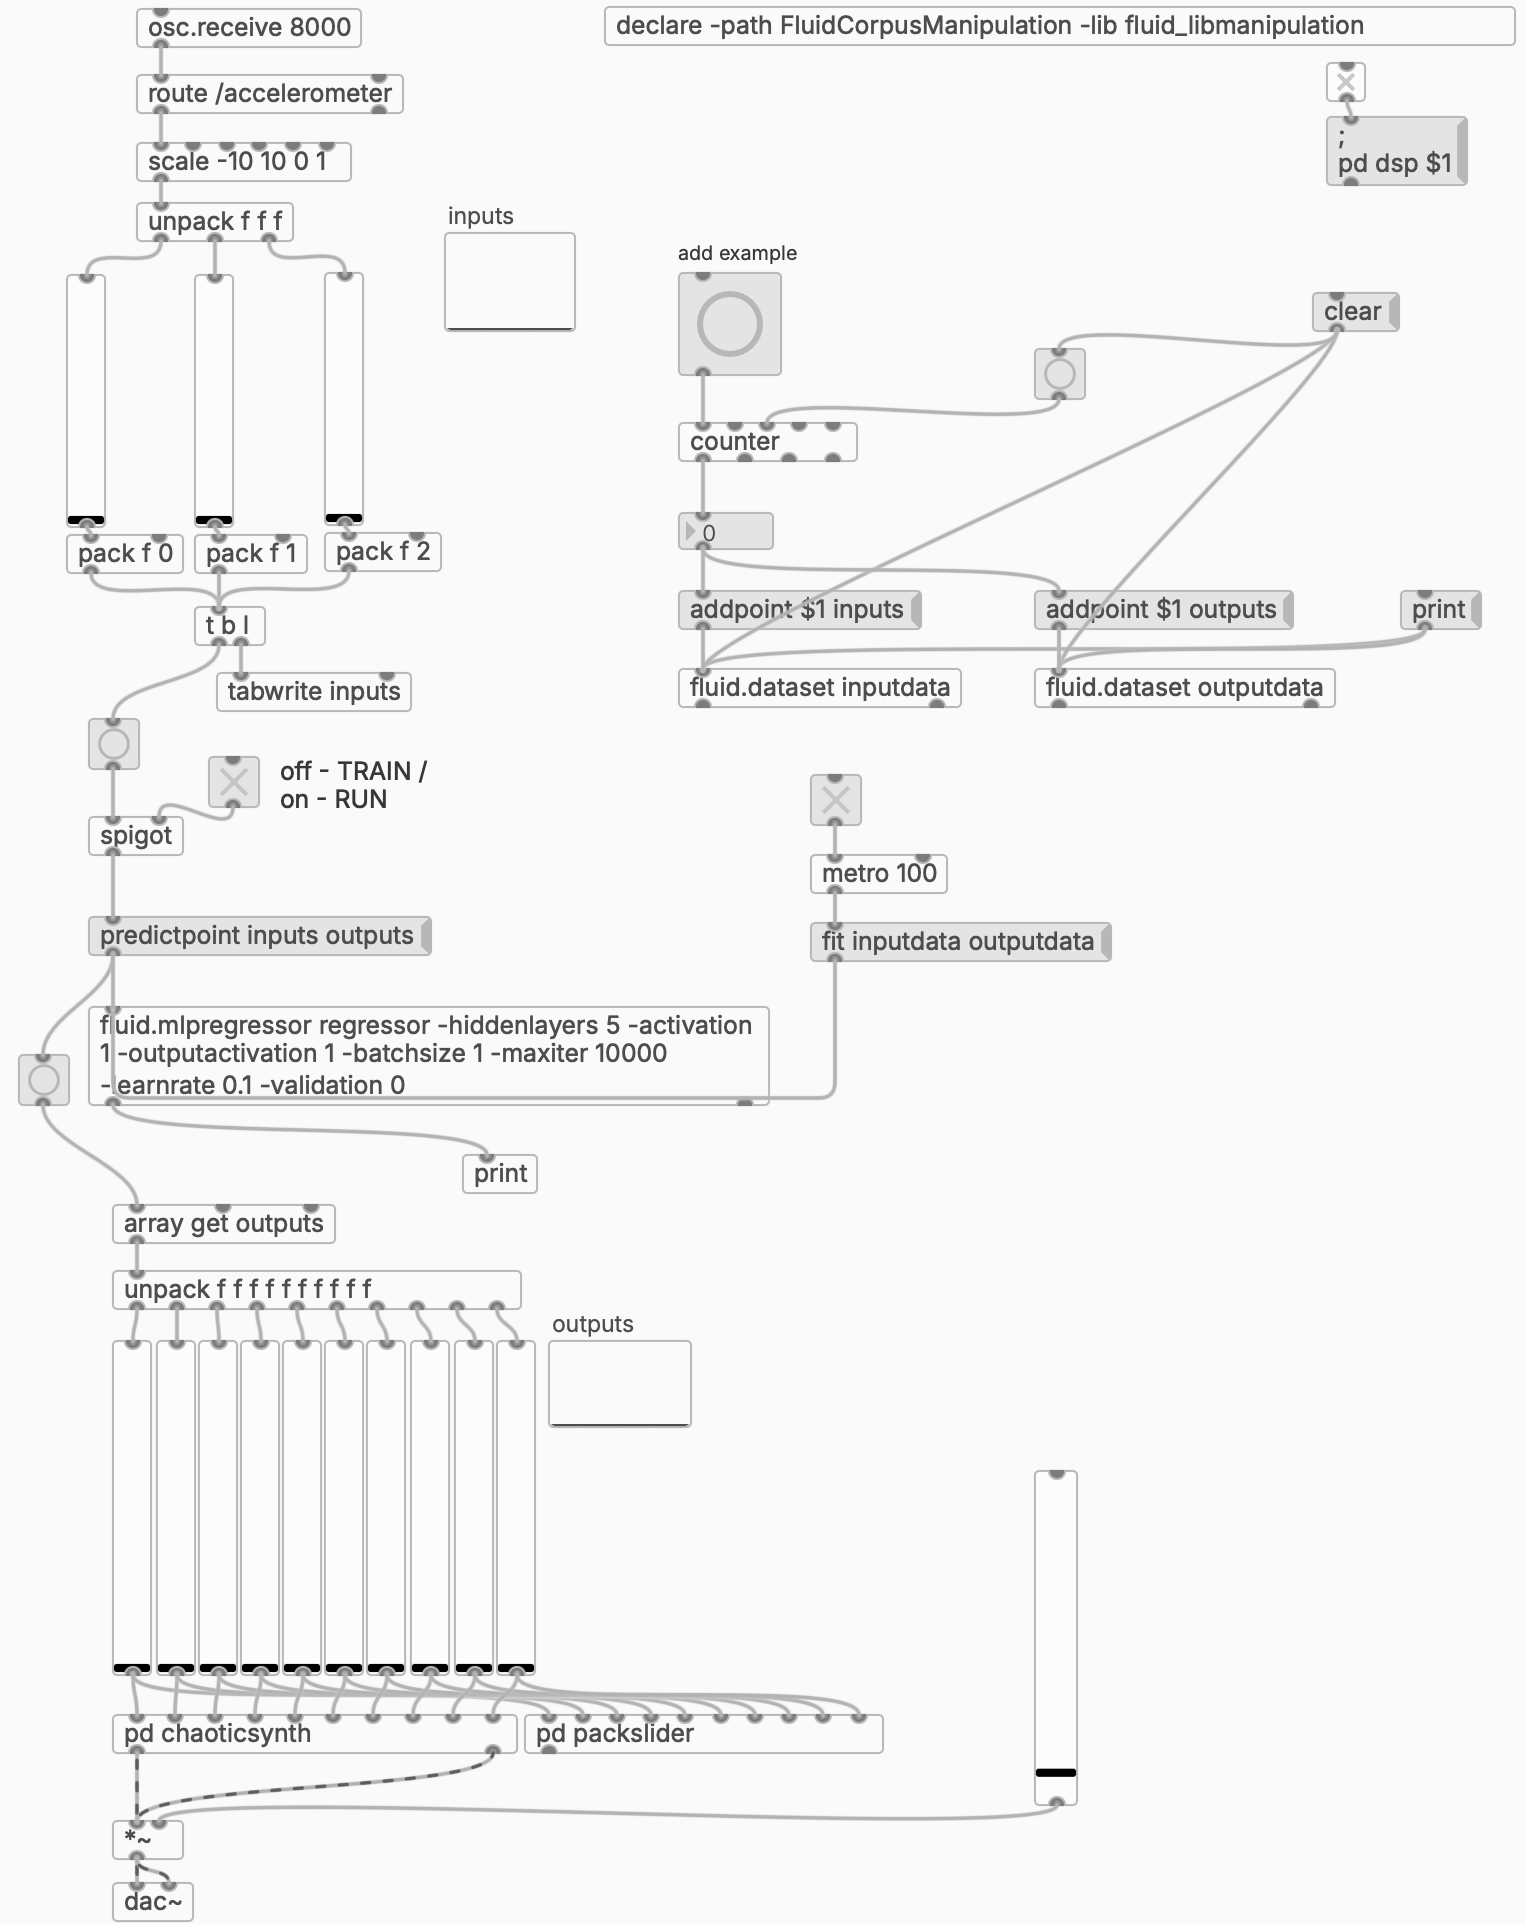
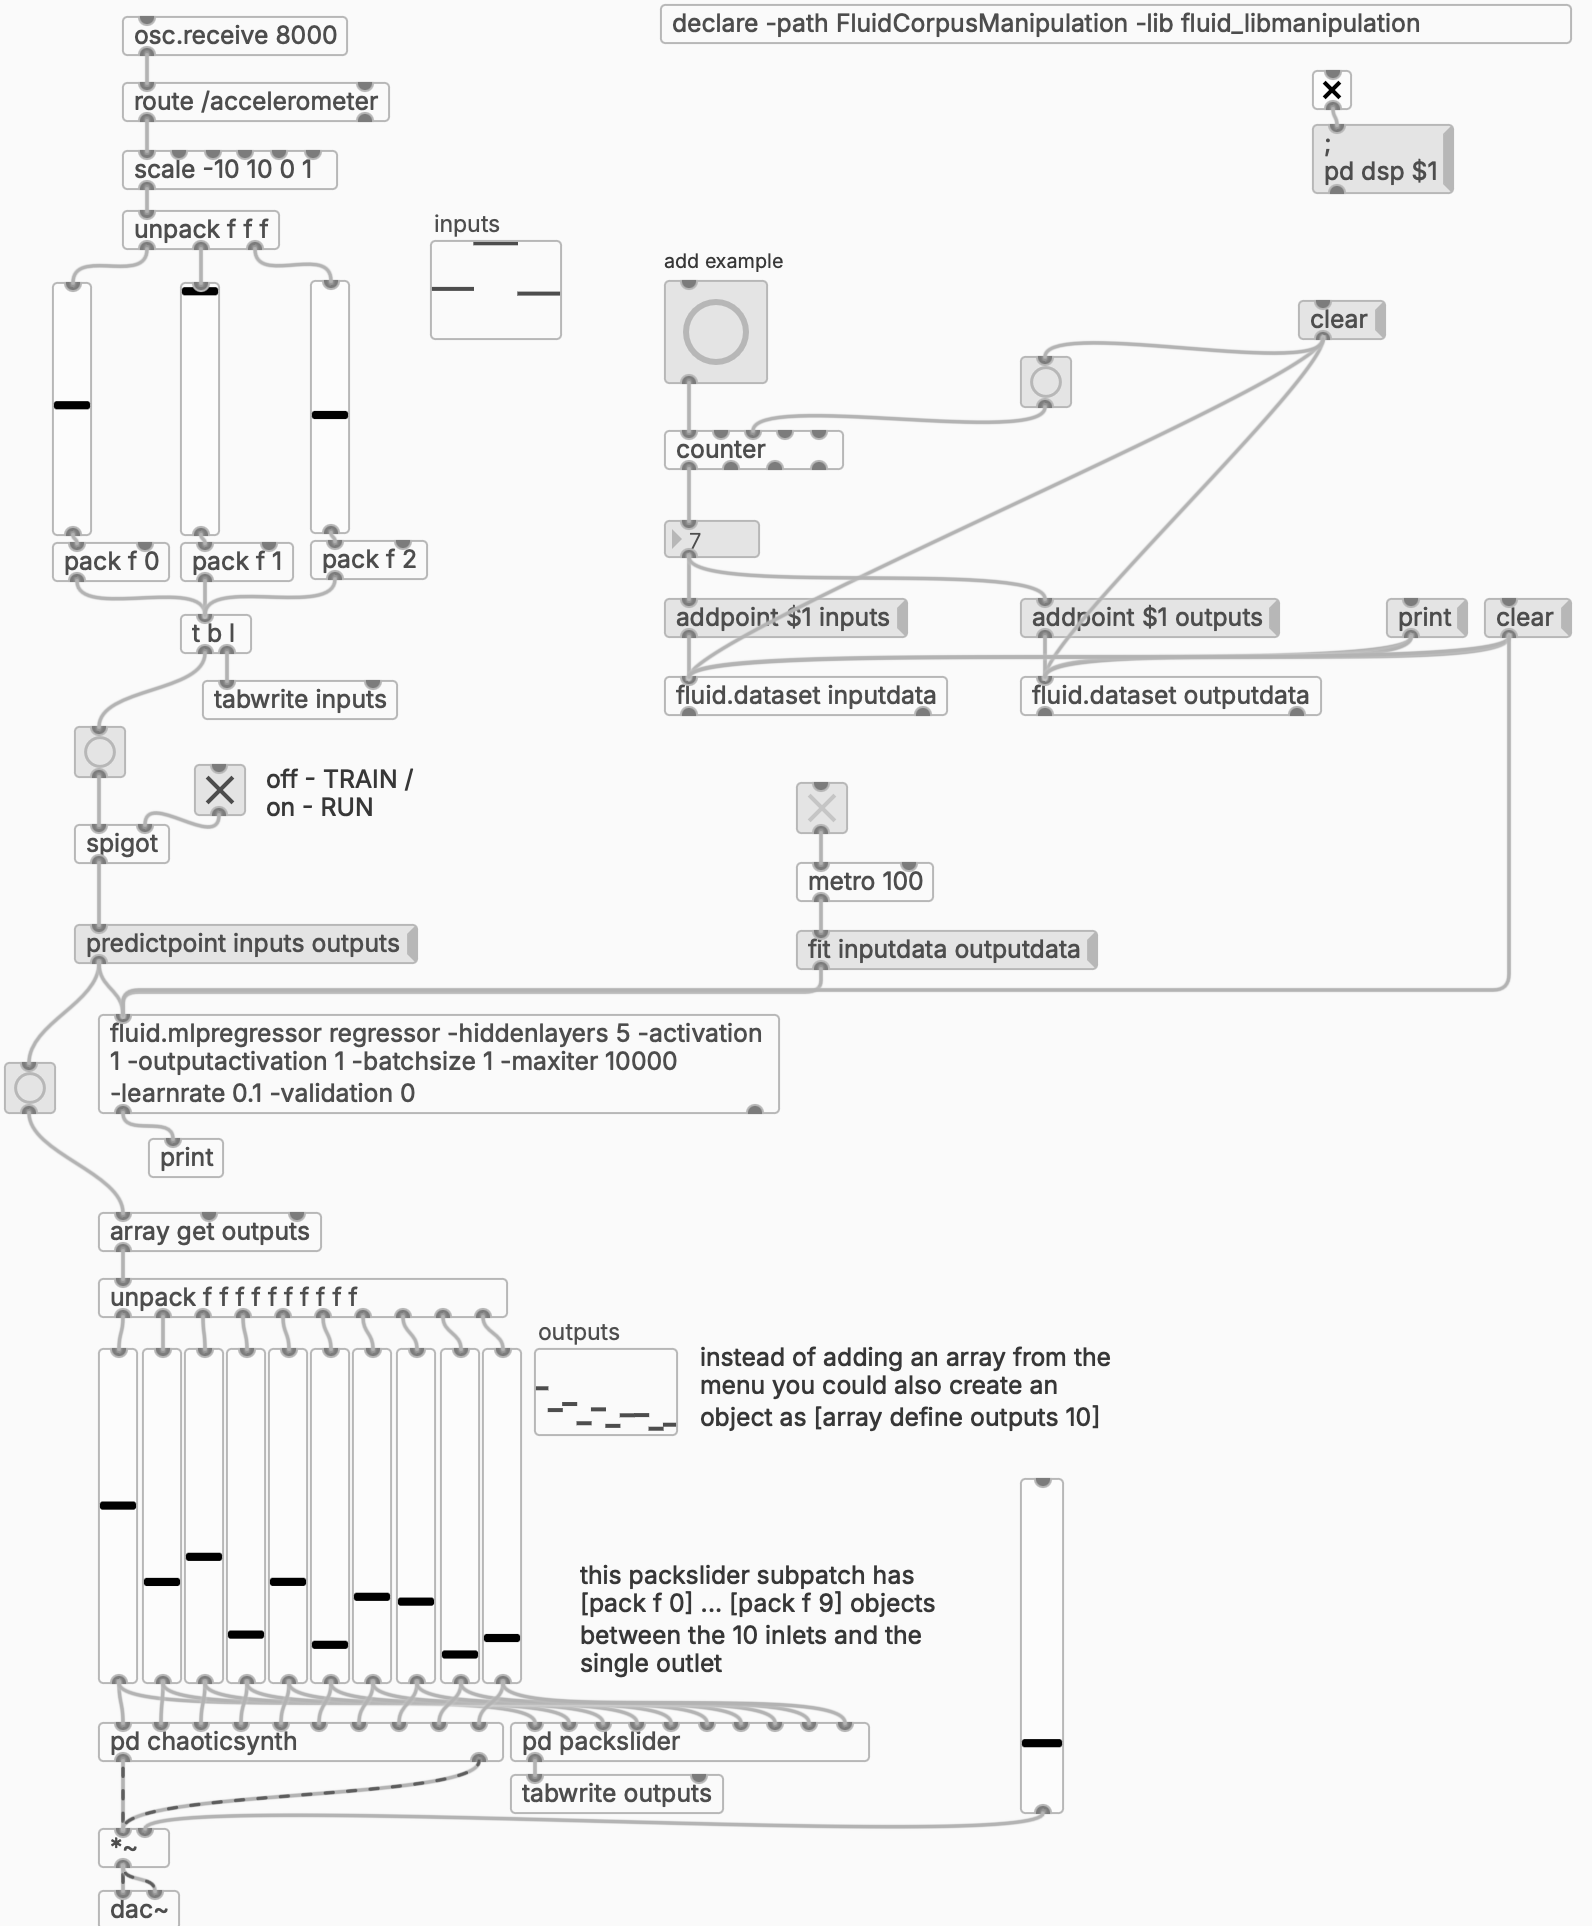
add vids imgs scripts

diff --git a/css/tufte.scss b/css/tufte.scss
@@ -261,7 +261,7 @@ figcaption { float: right;
 
 figure.fullwidth figcaption { float: left; margin-right: 0%; margin-left: 10%; max-width: 100%; }
 
-img { max-width: 100%; }
+img, video { max-width: 100%; }
 
 .sidenote, .marginnote { float: right;
                          clear: right;

diff --git a/_plugins/main_column_video.rb b/_plugins/main_column_video.rb
@@ -1,0 +1,47 @@
+## Liquid tag used to add video that fits within the main column area.
+## Usage {% maincolumnvideo 'path/to/video.mp4' 'This is the caption' %}
+#
+module Jekyll
+  class RenderMainColumnVideoTag < Liquid::Tag
+
+    require "shellwords"
+    require "kramdown"
+
+    def initialize(tag_name, text, tokens)
+      super
+      @text = text.shellsplit
+    end
+
+    def render(context)
+      site = context.registers[:site]
+      converter = site.find_converter_instance(::Jekyll::Converters::Markdown)
+
+      baseurl = site.config["baseurl"].to_s
+      path = @text[0].to_s
+      caption = @text[1].to_s
+      label = Kramdown::Document.new(caption, { remove_span_html_tags: true }).to_html
+      label = converter.convert(label).gsub(/<\/?p[^>]*>/, "").chomp
+
+      src = if path.start_with?("http://", "https://", "//")
+        path
+      else
+        "#{baseurl}/#{path.sub(%r{\A/+}, "")}"
+      end
+
+      "<figure><video class='maincolumn' controls playsinline preload='metadata'><source src='#{src}' type='#{mime_type(path)}'></video><figcaption class='maincolumn-figure'>#{label}</figcaption></figure>"
+    end
+
+    def mime_type(path)
+      case File.extname(path).downcase
+      when ".webm"
+        "video/webm"
+      when ".ogg", ".ogv"
+        "video/ogg"
+      else
+        "video/mp4"
+      end
+    end
+  end
+end
+
+Liquid::Template.register_tag("maincolumnvideo", Jekyll::RenderMainColumnVideoTag)

diff --git a/regression-osc-imu.md b/regression-osc-imu.md
@@ -12,6 +12,10 @@ A basic interactive ML workflow to easily create mappings from motion to sound o
 
 I'm going to describe a simple schema, first popularized by Rebecca Fiebrink in her now classic [Machine Learning for Musicians and Artists MOOC](https://www.kadenze.com/courses/machine-learning-for-musicians-and-artists-v/info), to create sound-making instruments by *example* instead of by mathematical specification. Of course, a similar pattern can work for controlling other types of media, such as video, lights etc.
 
+Here's a quick taste of how it can work, recorded in our April '26 workshop in Genova as part of [the Transper project](https://www.transper.eu/pilots/pilot-2-genova).
+
+{% maincolumnvideo '../attachments/video/imu-demo.mp4' 'My then-student [Tony Macpela](https://tonymacpela.com/) demoing the system described in this guide.' %}
+
 {% newthought 'Our input of choice will be motion' %}, as described by relative movement of a point in 3D space by an [IMU](https://en.wikipedia.org/wiki/Inertial_measurement_unit), aka accelerometer.{% sidenote 'mocap' '(as opposed to *absolute* motion capture systems that report positions in space)'%} How do you get your hands on an IMU? I think you have three major options: [Make it](#make-it). [Buy it](#buy-it). [Phone it](#phone-it).
 
 ### Make it
@@ -26,7 +30,7 @@ Here's what it turned out like for me: my very first soldering job back in 2019.
 
 My then-students [Dorin](https://cucicov.com/) and [Maria](https://www.instagram.com/what.is.bart/) helped with constructing fancy bracelets around 3 such sensor+board combos, with a pocket to house the LiPo battery and velcro to strap onto your wrist:
 
-{% maincolumn '../attachments/feather-imu.jpg' 'DYI motion bracelets. Over the years we have used them in various student projects, such as [Out of the Box](https://youtu.be/unKAOfE-q5Y) in Lyon, 2021.' %}
+{% maincolumn '../attachments/pd-imu-bracelets.jpg' 'DYI motion bracelets. Over the years we have used them in various student projects, such as [Out of the Box](https://youtu.be/unKAOfE-q5Y) in Lyon, 2021.' %}
 
 It's then just a matter of getting Arduino code for your MPU sensor and configuring it to send [OSC](https://docs.arduino.cc/libraries/osc/) messages. Here's [one way to do it](https://github.com/RVirmoors/cc-patterns/tree/main/Arduino/sendAcc_OSC).
 
@@ -96,4 +100,10 @@ Your final Pd patch should look something like this:
 
 {% maincolumn '../attachments/pd-imu-final.png' '' %}
 
+You do the training and the performance just as explained in the video, except now instead of dragging sliders to set the input, you change the orientation of your physical sensor, which sets the sliders in the patch. So the sequence is: (1) set an output sound, (2) set a sensor position, (3) click the "add example" button, and repeat. Once all examples are in, train the regressor and then switch the toggle into the `RUN` setting.
+
 ## Results
+
+Here you can see in Genova one of the students interacting with the system for the first time:
+
+{% maincolumnvideo '../attachments/video/imu-train-test.mp4' 'Training and testing the interactive ML motion-sound mapping.' %}